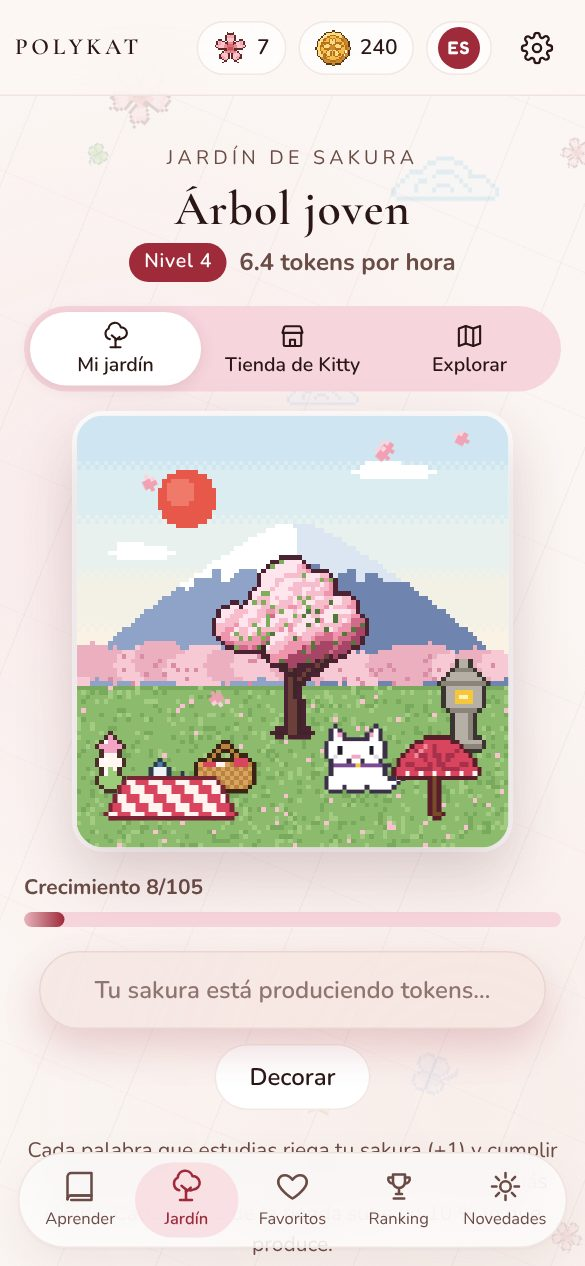
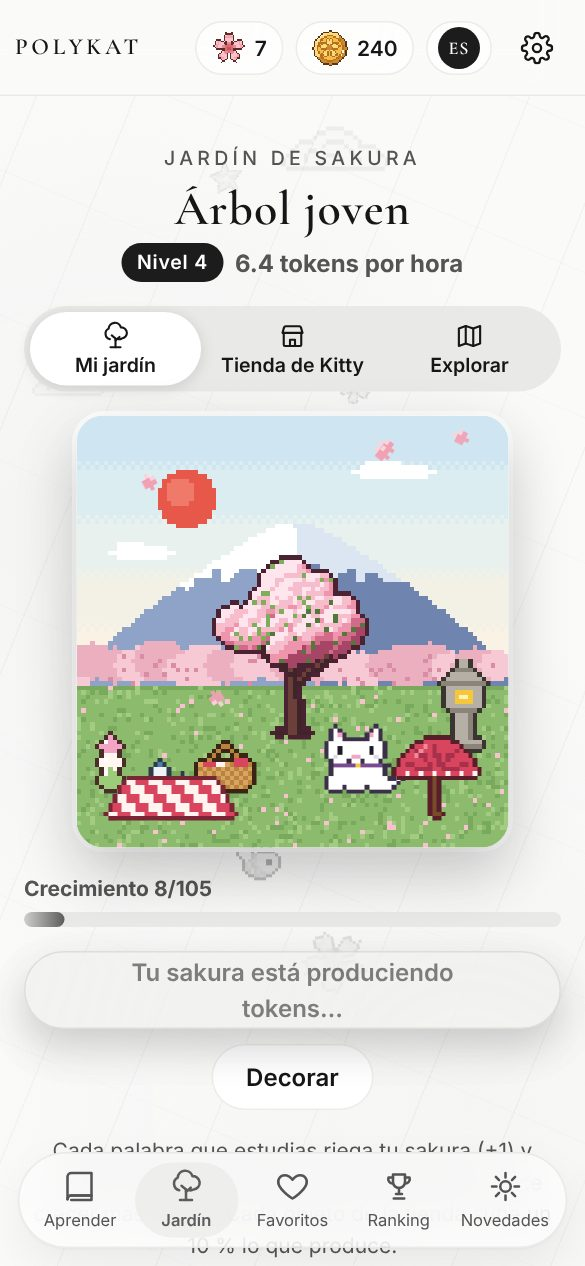
Estética editorial monocroma en la app y la web
- Paleta por defecto «Monocromo» (clave interna higo): blanco, grises y negro,
  en claro y oscuro; contraste ≥ 4,5 comprobado.
- Títulos en Cormorant Garamond y texto en Inter (antes Fredoka y Nunito).
- Ícono de la app sobre negro; manifest y theme-color al día.
- Adornos de fondo en gris; estados de «El proyecto» en blanco y negro.
- Capturas de la portada de la web regeneradas.
- SKILL.md: nueva decisión de estética.

Claude-Session: https://claude.ai/code/session_01TWBGA6CRZfGXqx1CQgpGsA

diff --git a/app/css/tokens.css b/app/css/tokens.css
@@ -1,16 +1,18 @@
 /* ==========================================================
    Polykat — tokens de diseño. Cambia colores y fuentes SOLO aquí.
-   Paletas (2026-10-13, más claras y vivas a pedido de Francisca): fondos casi blancos con un tono suave,
-   un color principal fuerte y 6 colores propios para los círculos (temas e idiomas): --nodo-1…6.
-     Higo (por defecto): frambuesa y ciruela · Piedra: menta y azul · Carbón: blanco, negro y joyas
+   Estética (2026-11-11, a pedido de Francisca): editorial y monocroma — blanco, grises y negro —,
+   títulos en serif (Cormorant Garamond) y texto en Inter. La paleta por defecto conserva la clave «higo»
+   (así no se pierde lo que cada persona eligió) pero se llama «Monocromo».
+   Paletas alternativas (Ajustes): 6 colores propios para los círculos (temas e idiomas): --nodo-1…6.
+     Monocromo (por defecto) · Piedra: menta y azul · Carbón: blanco, negro y joyas
      Tamarindo: rosa y terracota · Medianoche: lavanda y azul noche
    Los círculos usan los --nodo de la paleta elegida, así combinan con ella.
    Texto siempre oscuro en modo claro (contraste ≥ 4,5:1, comprobado en tests/contraste.test.mjs).
    ========================================================== */
 :root {
-  /* Tipografía (2026-10-13): redonda y gruesa en títulos + sans muy legible en el texto */
-  --font-display: 'Fredoka', 'Nunito', 'Arial Rounded MT Bold', system-ui, sans-serif;
-  --font-body: 'Nunito', 'Segoe UI', system-ui, -apple-system, sans-serif;
+  /* Tipografía (2026-11-11): serif editorial en títulos + sans neutra y muy legible en el texto */
+  --font-display: 'Cormorant Garamond', 'Cormorant', Garamond, 'Times New Roman', serif;
+  --font-body: 'Inter', 'Segoe UI', system-ui, -apple-system, sans-serif;
   --font-ipa: 'Noto Sans', 'Segoe UI', system-ui, sans-serif; /* símbolos de pronunciación */
   --font-logo: 'Cormorant Garamond', 'Cormorant', Garamond, 'Times New Roman', serif; /* logo y eslogan: serif elegante */
   --escala: 1;              /* ajuste "tamaño de letra" */
@@ -35,21 +37,21 @@
   --tracking-titulo: -0.03em;
   --borde-fino: color-mix(in srgb, var(--line) 45%, transparent);
   --vidrio: color-mix(in srgb, var(--surface) 72%, transparent);
-  --sombra-suave: 0 1px 2px rgba(90, 42, 48, .04), 0 12px 32px rgba(90, 42, 48, .07);
+  --sombra-suave: 0 1px 2px rgba(0, 0, 0, .04), 0 12px 32px rgba(0, 0, 0, .06);
   --sombra-acento: 0 12px 28px color-mix(in srgb, var(--primary) 28%, transparent);
 
-  /* Paleta "Higo" (por defecto, modo claro) */
-  --bg: #FBF6F3; --surface: #FFFFFF; --surface-2: #F5E4E0; --accent: #E8B4BC;
-  --accent-soft: #F7D5DC; --line: #E3CCC6; --ink: #2A1715; --ink-soft: #6B4B45;
-  --primary: #9E2A3A; --on-primary: #FFFFFF; --enfasis: #9E2A3A; --gold: #7A4A33;
-  --sand: #E8B4BC; --oscuro: #2A1715; --sobre-oscuro: #F5E4E0; --sobre-oscuro-suave: #E3CCC6;
-  --sombra-color: #5A2A30; --nodo-1: #A3264A; --nodo-2: #7B3FA0; --nodo-3: #C2410C;
-  --nodo-4: #A0367A; --nodo-5: #8A3324; --nodo-6: #5B4BA8;
-  --shadow: 0 1px 2px rgba(90, 42, 48, .06), 0 14px 40px rgba(90, 42, 48, .10);
+  /* Paleta «Monocromo» (por defecto, modo claro; clave interna «higo»): blanco, grises y negro */
+  --bg: #FAFAF9; --surface: #FFFFFF; --surface-2: #F0F0EE; --accent: #CFCFCD;
+  --accent-soft: #E9E9E7; --line: #D4D4D2; --ink: #161616; --ink-soft: #545454;
+  --primary: #1C1C1C; --on-primary: #FFFFFF; --enfasis: #5C5C5C; --gold: #5C5C5C;
+  --sand: #CFCFCD; --oscuro: #161616; --sobre-oscuro: #F0F0EE; --sobre-oscuro-suave: #C8C8C6;
+  --sombra-color: #000000; --nodo-1: #1C1C1C; --nodo-2: #3D3D3D; --nodo-3: #575757;
+  --nodo-4: #2B2B2B; --nodo-5: #4A4A4A; --nodo-6: #636363;
+  --shadow: 0 1px 2px rgba(0, 0, 0, .05), 0 14px 40px rgba(0, 0, 0, .07);
 
   /* Dificultad: insignias de color con ícono y texto en blanco (iguales en claro y oscuro) */
   --blanco: #FFFFFF;
-  --carmesi: #9E2A3A; --carmesi-luz: #B8384A; --blanco-fijo: #FFFFFF; --luz-farol: #FFD27A; --brillo-diamante: #BFF3FF; /* ícono de la app (fijo, igual en todas las paletas) */
+  --carmesi: #1C1C1C; --carmesi-luz: #3A3A3A; --blanco-fijo: #FFFFFF; --luz-farol: #FFD27A; --brillo-diamante: #BFF3FF; /* ícono de la app (fijo, igual en todas las paletas) */
   --d-nueva: #0369A1;     /* destello */
   --d-dificil: #B91C1C;   /* llama */
   --d-media: #B45309;     /* medio círculo */
@@ -59,7 +61,7 @@
 }
 
 /* Muestras de cada paleta (Ajustes → Paleta): fondo, círculo y color principal */
-.muestra-higo { background: conic-gradient(#F7D5DC 0 33%, #7B3FA0 0 66%, #9E2A3A 0); }
+.muestra-higo { background: conic-gradient(#F0F0EE 0 33%, #8A8A8A 0 66%, #1C1C1C 0); }
 .muestra-piedra { background: conic-gradient(#CDEBE5 0 33%, #2563EB 0 66%, #0F766E 0); }
 .muestra-carbon { background: conic-gradient(#DDDDE3 0 33%, #2563EB 0 66%, #18181B 0); }
 .muestra-tamarindo { background: conic-gradient(#F2CFD3 0 33%, #B4532A 0 66%, #8E2F45 0); }
@@ -102,10 +104,10 @@
 /* Modo oscuro: fondos profundos con el tono de la paleta (no negro) */
 @media (prefers-color-scheme: dark) {
   :root:not([data-theme="light"]) {
-    --bg: #2B1B22; --surface: #3A2530; --surface-2: #4B3040; --accent: #B0506A;
-    --accent-soft: #4A2B3A; --line: #6E4A58; --ink: #FBEFF2; --ink-soft: #E6C9D1;
-    --primary: #F4A3B5; --on-primary: #2B1B22; --enfasis: #F4A3B5; --gold: #F2C9A8;
-    --sand: #B0506A;
+    --bg: #121212; --surface: #1C1C1C; --surface-2: #262626; --accent: #5E5E5E;
+    --accent-soft: #242424; --line: #3A3A3A; --ink: #F2F2F2; --ink-soft: #BDBDBD;
+    --primary: #F2F2F2; --on-primary: #121212; --enfasis: #CFCFCF; --gold: #BDBDBD;
+    --sand: #5E5E5E;
     --shadow: 0 1px 2px rgba(0, 0, 0, .35), 0 14px 40px rgba(0, 0, 0, .4);
     --sombra-suave: 0 1px 2px rgba(0, 0, 0, .3), 0 12px 32px rgba(0, 0, 0, .35);
     --peligro: #FFB4B4;
@@ -113,10 +115,10 @@
   }
 }
 :root[data-theme="dark"] {
-  --bg: #2B1B22; --surface: #3A2530; --surface-2: #4B3040; --accent: #B0506A;
-  --accent-soft: #4A2B3A; --line: #6E4A58; --ink: #FBEFF2; --ink-soft: #E6C9D1;
-  --primary: #F4A3B5; --on-primary: #2B1B22; --enfasis: #F4A3B5; --gold: #F2C9A8;
-  --sand: #B0506A;
+  --bg: #121212; --surface: #1C1C1C; --surface-2: #262626; --accent: #5E5E5E;
+  --accent-soft: #242424; --line: #3A3A3A; --ink: #F2F2F2; --ink-soft: #BDBDBD;
+  --primary: #F2F2F2; --on-primary: #121212; --enfasis: #CFCFCF; --gold: #BDBDBD;
+  --sand: #5E5E5E;
   --shadow: 0 1px 2px rgba(0, 0, 0, .35), 0 14px 40px rgba(0, 0, 0, .4);
   --sombra-suave: 0 1px 2px rgba(0, 0, 0, .3), 0 12px 32px rgba(0, 0, 0, .35);
   --peligro: #FFB4B4;
@@ -170,5 +172,16 @@
     --accent-soft: #2B3350; --line: #4C5680; --ink: #EEF0FB; --ink-soft: #C3C9EA;
     --primary: #A9B4FF; --on-primary: #1B2135; --enfasis: #A9B4FF; --gold: #D8C8FF;
     --sand: #5A67C9;
+  }
+}
+
+/* Monocromo en modo oscuro: los círculos (texto blanco) pasan a grises medios para verse sobre el fondo negro.
+   Solo para la paleta por defecto (las otras conservan sus colores). */
+:root[data-theme="dark"]:not([data-paleta]), :root[data-theme="dark"][data-paleta="higo"] {
+  --nodo-1: #4A4A4A; --nodo-2: #5A5A5A; --nodo-3: #626262; --nodo-4: #555555; --nodo-5: #4F4F4F; --nodo-6: #5E5E5E;
+}
+@media (prefers-color-scheme: dark) {
+  :root:not([data-theme="light"]):not([data-paleta]), :root:not([data-theme="light"])[data-paleta="higo"] {
+    --nodo-1: #4A4A4A; --nodo-2: #5A5A5A; --nodo-3: #626262; --nodo-4: #555555; --nodo-5: #4F4F4F; --nodo-6: #5E5E5E;
   }
 }

diff --git a/web/index.html b/web/index.html
@@ -5,8 +5,8 @@
   <meta name="viewport" content="width=device-width, initial-scale=1, viewport-fit=cover">
   <title>Polykat — Un idioma nuevo, un minuto a la vez</title>
   <meta name="description" content="Polykat: aprende el vocabulario y las frases cotidianas de seis idiomas a la vez, en tarjetas que deslizas como un reel.">
-  <meta name="theme-color" content="#E4E2DA" media="(prefers-color-scheme: light)">
-  <meta name="theme-color" content="#211A18" media="(prefers-color-scheme: dark)">
+  <meta name="theme-color" content="#FAFAF9" media="(prefers-color-scheme: light)">
+  <meta name="theme-color" content="#121212" media="(prefers-color-scheme: dark)">
   <meta property="og:title" content="Polykat — Diccionario políglota">
   <meta property="og:description" content="Vocabulario y frases de seis idiomas, un minuto a la vez.">
   <link rel="icon" href="app/assets/app/favicon-32.png" type="image/png" sizes="32x32">
@@ -14,8 +14,8 @@
   <link rel="preconnect" href="https://fonts.googleapis.com">
   <link rel="preconnect" href="https://fonts.gstatic.com" crossorigin>
   <!-- Fuentes: se cargan sin bloquear el primer dibujo (mientras tanto se ve la letra del sistema) -->
-  <link rel="preload" as="style" href="https://fonts.googleapis.com/css2?family=Fredoka:wght@400;500;600;700&family=Nunito:ital,wght@0,400;0,600;0,700;0,800;1,400&family=Cormorant+Garamond:ital,wght@0,500;0,600;0,700;1,500;1,600&display=swap" onload="this.onload=null;this.rel='stylesheet'">
-  <noscript><link rel="stylesheet" href="https://fonts.googleapis.com/css2?family=Fredoka:wght@400;500;600;700&family=Nunito:ital,wght@0,400;0,600;0,700;0,800;1,400&family=Cormorant+Garamond:ital,wght@0,500;0,600;0,700;1,500;1,600&display=swap"></noscript>
+  <link rel="preload" as="style" href="https://fonts.googleapis.com/css2?family=Cormorant+Garamond:ital,wght@0,400;0,500;0,600;0,700;1,500;1,600&family=Inter:wght@400;500;600;700;800&display=swap" onload="this.onload=null;this.rel='stylesheet'">
+  <noscript><link rel="stylesheet" href="https://fonts.googleapis.com/css2?family=Cormorant+Garamond:ital,wght@0,400;0,500;0,600;0,700;1,500;1,600&family=Inter:wght@400;500;600;700;800&display=swap"></noscript>
   <link rel="stylesheet" href="app/css/tokens.css">
   <link rel="stylesheet" href="app/css/logo.css">
   <link rel="stylesheet" href="web.css">

diff --git a/app/index.html b/app/index.html
@@ -5,7 +5,7 @@
   <meta name="viewport" content="width=device-width, initial-scale=1, viewport-fit=cover">
   <title>Polykat</title>
   <meta name="description" content="Aprende el vocabulario y las frases cotidianas de varios idiomas a la vez, deslizando tarjetas.">
-  <meta name="theme-color" content="#9E2A3A">
+  <meta name="theme-color" content="#1C1C1C">
   <link rel="manifest" href="manifest.webmanifest">
   <link rel="icon" href="assets/app/favicon-32.png" type="image/png" sizes="32x32">
   <link rel="apple-touch-icon" href="assets/app/apple-touch-icon.png">
@@ -16,8 +16,8 @@
   <link rel="preconnect" href="https://fonts.googleapis.com">
   <link rel="preconnect" href="https://fonts.gstatic.com" crossorigin>
   <!-- Fuentes: se cargan sin bloquear el primer dibujo (mientras tanto se ve la letra del sistema) -->
-  <link rel="preload" as="style" href="https://fonts.googleapis.com/css2?family=Fredoka:wght@400;500;600;700&family=Nunito:ital,wght@0,400;0,600;0,700;0,800;1,400&family=Noto+Sans:wght@400&family=Cormorant+Garamond:ital,wght@0,500;0,600;0,700;1,500;1,600&display=swap" onload="this.onload=null;this.rel='stylesheet'">
-  <noscript><link rel="stylesheet" href="https://fonts.googleapis.com/css2?family=Fredoka:wght@400;500;600;700&family=Nunito:ital,wght@0,400;0,600;0,700;0,800;1,400&family=Noto+Sans:wght@400&family=Cormorant+Garamond:ital,wght@0,500;0,600;0,700;1,500;1,600&display=swap"></noscript>
+  <link rel="preload" as="style" href="https://fonts.googleapis.com/css2?family=Cormorant+Garamond:ital,wght@0,400;0,500;0,600;0,700;1,500;1,600&family=Inter:wght@400;500;600;700;800&family=Noto+Sans:wght@400&display=swap" onload="this.onload=null;this.rel='stylesheet'">
+  <noscript><link rel="stylesheet" href="https://fonts.googleapis.com/css2?family=Cormorant+Garamond:ital,wght@0,400;0,500;0,600;0,700;1,500;1,600&family=Inter:wght@400;500;600;700;800&family=Noto+Sans:wght@400&display=swap"></noscript>
   <link rel="stylesheet" href="css/tokens.css">
   <link rel="stylesheet" href="css/logo.css">
   <link rel="stylesheet" href="css/app.css">

diff --git a/app/js/i18n-de.js b/app/js/i18n-de.js
@@ -59,7 +59,7 @@ export default {
     rank_pronto: 'Die Rangliste mit anderen wird aktiviert, sobald es Cloud-Konten gibt.',
     nov_titulo: 'Neuigkeiten',
     aj_titulo: 'Einstellungen', aj_apariencia: 'Darstellung', aj_tema: 'Design', aj_sistema: 'Wie Gerät', aj_claro: 'Hell', aj_oscuro: 'Dunkel',
-    aj_paleta: 'Farbpalette', pal_higo: 'Feige', pal_piedra: 'Stein', pal_carbon: 'Kohle', pal_tamarindo: 'Tamarinde', pal_medianoche: 'Mitternacht',
+    aj_paleta: 'Farbpalette', pal_higo: 'Monochrom', pal_piedra: 'Stein', pal_carbon: 'Kohle', pal_tamarindo: 'Tamarinde', pal_medianoche: 'Mitternacht',
     aj_letra: 'Textgröße', aj_brillo: 'Helligkeit', aj_ipa: 'Lautschrift anzeigen (IPA)',
     aj_sonido: 'Töne und Vibration', premio_titulo: 'Gewinn!', premio_texto: 'Du hast heute {n} Wörter wiederholt', premio_siguiente: 'Nächster Gewinn bei {n} Wörtern: {m} Münzen', premio_ok: 'Einsammeln!', desliza_lados: 'Wische → wenn du es weißt · ← zum Wiederholen',
     nov_nueva: 'Neues Update!', nov_anteriores: 'Frühere Versionen', tut_k1: 'Hallo! Ich bin Kitty. Tippe auf die Karte, um die Übersetzung zu sehen.', tut_k2: 'Wusstest du es schon? Wische die Karte nach rechts. Willst du sie wiederholen? Nach links.', tut_k3: 'Jede Karte bringt dir Münzen. Alle 10 Wörter am Tag gewinnst du einen Preis!', tut_k4: 'Wenn du nicht weiterweißt, tippe auf mich und ich helfe dir mit dem Wort.', tut_siguiente: 'Weiter', tut_listo: 'Verstanden!', tut_saltar: 'Überspringen', tut_ver: 'Tutorial mit Kitty ansehen',

diff --git a/app/js/i18n-fr.js b/app/js/i18n-fr.js
@@ -59,7 +59,7 @@ export default {
     rank_pronto: 'Le classement avec d’autres personnes s’activera avec les comptes en ligne.',
     nov_titulo: 'Nouveautés',
     aj_titulo: 'Réglages', aj_apariencia: 'Apparence', aj_tema: 'Thème', aj_sistema: 'De l’appareil', aj_claro: 'Clair', aj_oscuro: 'Sombre',
-    aj_paleta: 'Palette', pal_higo: 'Figue', pal_piedra: 'Pierre', pal_carbon: 'Charbon', pal_tamarindo: 'Tamarin', pal_medianoche: 'Minuit',
+    aj_paleta: 'Palette', pal_higo: 'Monochrome', pal_piedra: 'Pierre', pal_carbon: 'Charbon', pal_tamarindo: 'Tamarin', pal_medianoche: 'Minuit',
     aj_letra: 'Taille du texte', aj_brillo: 'Luminosité', aj_ipa: 'Afficher la prononciation écrite (API)',
     aj_sonido: 'Sons et vibrations', premio_titulo: 'Jackpot !', premio_texto: 'Tu as révisé {n} mots aujourd\'hui', premio_siguiente: 'Prochain prix à {n} mots : {m} pièces', premio_ok: 'Encaisser !', desliza_lados: 'Glisse → si tu sais · ← pour réviser',
     nov_nueva: 'Nouvelle mise à jour !', nov_anteriores: 'Versions précédentes', tut_k1: 'Salut ! Je suis Kitty. Touche la carte pour voir la traduction.', tut_k2: 'Tu le savais ? Glisse la carte vers la droite. Tu veux la réviser ? Vers la gauche.', tut_k3: 'Chaque carte te donne des pièces. Tous les 10 mots du jour, tu gagnes un prix !', tut_k4: 'Si tu es perdu, touche-moi et je t\'aide avec le mot.', tut_siguiente: 'Suivant', tut_listo: 'C\'est compris !', tut_saltar: 'Passer', tut_ver: 'Voir le tutoriel avec Kitty',

diff --git a/app/js/i18n.js b/app/js/i18n.js
@@ -65,7 +65,7 @@ const T = {
     rank_pronto: 'El ranking con otras personas se activa cuando existan las cuentas en la nube.',
     nov_titulo: 'Novedades',
     aj_titulo: 'Ajustes', aj_apariencia: 'Apariencia', aj_tema: 'Tema', aj_sistema: 'Del dispositivo', aj_claro: 'Claro', aj_oscuro: 'Oscuro',
-    aj_paleta: 'Paleta', pal_higo: 'Higo', pal_piedra: 'Piedra', pal_carbon: 'Carbón', pal_tamarindo: 'Tamarindo', pal_medianoche: 'Medianoche',
+    aj_paleta: 'Paleta', pal_higo: 'Monocromo', pal_piedra: 'Piedra', pal_carbon: 'Carbón', pal_tamarindo: 'Tamarindo', pal_medianoche: 'Medianoche',
     aj_letra: 'Tamaño de letra', aj_brillo: 'Brillo', aj_ipa: 'Mostrar pronunciación escrita (IPA)',
     aj_sonido: 'Sonidos y vibración', premio_titulo: '¡Premio!', premio_texto: 'Revisaste {n} palabras hoy', premio_siguiente: 'Próximo premio a las {n} palabras: {m} monedas', premio_ok: '¡Cobrar!', desliza_lados: 'Desliza → si lo sabes · ← para repasar',
     nov_nueva: '¡Nueva actualización!', nov_anteriores: 'Versiones anteriores', tut_k1: '¡Hola! Soy Kitty. Toca la tarjeta para ver la traducción.', tut_k2: '¿Ya la sabías? Desliza la tarjeta a la derecha. ¿Quieres repasarla? A la izquierda.', tut_k3: 'Cada tarjeta te da monedas. ¡Cada 10 palabras del día ganas un premio!', tut_k4: 'Si te pierdes, tócame y te ayudo con la palabra.', tut_siguiente: 'Siguiente', tut_listo: '¡Entendido!', tut_saltar: 'Saltar', tut_ver: 'Ver el tutorial con Kitty',

diff --git a/app/js/i18n-pt.js b/app/js/i18n-pt.js
@@ -59,7 +59,7 @@ export default {
     rank_pronto: 'O ranking com outras pessoas é ativado quando existirem as contas na nuvem.',
     nov_titulo: 'Novidades',
     aj_titulo: 'Ajustes', aj_apariencia: 'Aparência', aj_tema: 'Tema', aj_sistema: 'Do dispositivo', aj_claro: 'Claro', aj_oscuro: 'Escuro',
-    aj_paleta: 'Paleta', pal_higo: 'Figo', pal_piedra: 'Pedra', pal_carbon: 'Carvão', pal_tamarindo: 'Tamarindo', pal_medianoche: 'Meia-noite',
+    aj_paleta: 'Paleta', pal_higo: 'Monocromático', pal_piedra: 'Pedra', pal_carbon: 'Carvão', pal_tamarindo: 'Tamarindo', pal_medianoche: 'Meia-noite',
     aj_letra: 'Tamanho do texto', aj_brillo: 'Brilho', aj_ipa: 'Mostrar pronúncia escrita (IPA)',
     aj_sonido: 'Sons e vibração', premio_titulo: 'Prêmio!', premio_texto: 'Você revisou {n} palavras hoje', premio_siguiente: 'Próximo prêmio com {n} palavras: {m} moedas', premio_ok: 'Pegar!', desliza_lados: 'Deslize → se você sabe · ← para revisar',
     nov_nueva: 'Nova atualização!', nov_anteriores: 'Versões anteriores', tut_k1: 'Oi! Eu sou a Kitty. Toque no cartão para ver a tradução.', tut_k2: 'Já sabia? Deslize o cartão para a direita. Quer revisar? Para a esquerda.', tut_k3: 'Cada cartão te dá moedas. A cada 10 palavras do dia você ganha um prêmio!', tut_k4: 'Se você se perder, toque em mim que eu te ajudo com a palavra.', tut_siguiente: 'Próximo', tut_listo: 'Entendi!', tut_saltar: 'Pular', tut_ver: 'Ver o tutorial com a Kitty',

diff --git a/app/js/i18n-it.js b/app/js/i18n-it.js
@@ -59,7 +59,7 @@ export default {
     rank_pronto: 'La classifica con altre persone si attiva quando esisteranno gli account nel cloud.',
     nov_titulo: 'Novità',
     aj_titulo: 'Impostazioni', aj_apariencia: 'Aspetto', aj_tema: 'Tema', aj_sistema: 'Del dispositivo', aj_claro: 'Chiaro', aj_oscuro: 'Scuro',
-    aj_paleta: 'Tavolozza', pal_higo: 'Fico', pal_piedra: 'Pietra', pal_carbon: 'Carbone', pal_tamarindo: 'Tamarindo', pal_medianoche: 'Mezzanotte',
+    aj_paleta: 'Tavolozza', pal_higo: 'Monocromatico', pal_piedra: 'Pietra', pal_carbon: 'Carbone', pal_tamarindo: 'Tamarindo', pal_medianoche: 'Mezzanotte',
     aj_letra: 'Dimensione del testo', aj_brillo: 'Luminosità', aj_ipa: 'Mostra la pronuncia scritta (IPA)',
     aj_sonido: 'Suoni e vibrazione', premio_titulo: 'Premio!', premio_texto: 'Oggi hai ripassato {n} parole', premio_siguiente: 'Prossimo premio a {n} parole: {m} monete', premio_ok: 'Ritira!', desliza_lados: 'Scorri → se la sai · ← per ripassare',
     nov_nueva: 'Nuovo aggiornamento!', nov_anteriores: 'Versioni precedenti', tut_k1: 'Ciao! Sono Kitty. Tocca la carta per vedere la traduzione.', tut_k2: 'La sapevi già? Scorri la carta a destra. Vuoi ripassarla? A sinistra.', tut_k3: 'Ogni carta ti dà monete. Ogni 10 parole al giorno vinci un premio!', tut_k4: 'Se ti perdi, toccami e ti aiuto con la parola.', tut_siguiente: 'Avanti', tut_listo: 'Capito!', tut_saltar: 'Salta', tut_ver: 'Guarda il tutorial con Kitty',

diff --git a/app/js/i18n-en.js b/app/js/i18n-en.js
@@ -59,7 +59,7 @@ export default {
     rank_pronto: 'Ranking against other people turns on once cloud accounts exist.',
     nov_titulo: 'What’s new',
     aj_titulo: 'Settings', aj_apariencia: 'Appearance', aj_tema: 'Theme', aj_sistema: 'Device', aj_claro: 'Light', aj_oscuro: 'Dark',
-    aj_paleta: 'Palette', pal_higo: 'Fig', pal_piedra: 'Stone', pal_carbon: 'Charcoal', pal_tamarindo: 'Tamarind', pal_medianoche: 'Midnight',
+    aj_paleta: 'Palette', pal_higo: 'Monochrome', pal_piedra: 'Stone', pal_carbon: 'Charcoal', pal_tamarindo: 'Tamarind', pal_medianoche: 'Midnight',
     aj_letra: 'Text size', aj_brillo: 'Brightness', aj_ipa: 'Show written pronunciation (IPA)',
     aj_sonido: 'Sounds and vibration', premio_titulo: 'Jackpot!', premio_texto: 'You reviewed {n} words today', premio_siguiente: 'Next prize at {n} words: {m} coins', premio_ok: 'Collect!', desliza_lados: 'Swipe → if you know it · ← to review',
     nov_nueva: 'New update!', nov_anteriores: 'Previous versions', tut_k1: 'Hi! I\'m Kitty. Tap the card to see the translation.', tut_k2: 'Already knew it? Swipe the card right. Want to review it? Swipe left.', tut_k3: 'Every card gives you coins. Every 10 words a day you win a prize!', tut_k4: 'If you get lost, tap me and I\'ll help you with the word.', tut_siguiente: 'Next', tut_listo: 'Got it!', tut_saltar: 'Skip', tut_ver: 'Watch the tutorial with Kitty',

diff --git a/web/web.css b/web/web.css
@@ -626,3 +626,15 @@ main { counter-reset: seccion; }
   .idioma-txt { flex: 1 1 calc(100% - 50px); }
   .idioma .tag { min-height: 22px; padding: 0 8px; font-size: 11px; }
 }
+
+/* ---------- Estética monocroma (2026-11-11): blanco, grises y negro ---------- */
+/* Adornos de fondo (sakuras, monedas) en gris: acompañan sin romper el blanco y negro. Kitty conserva su color. */
+.adornos { filter: grayscale(1); }
+/* Estados del proyecto: negro (hecho), gris (en curso), contorno (próximo); siempre con ícono y texto */
+.estado.hecho { background: var(--primary); color: var(--on-primary); }
+.estado.curso { background: var(--ink-soft); color: var(--surface); }
+.avance-barra i.hecho { background: var(--primary); }
+.avance-barra i.curso { background: linear-gradient(90deg, var(--ink-soft) 50%, var(--surface-2) 50%); }
+.dato-num { color: var(--ink); }
+/* Títulos en serif editorial: sin el apretado que necesitaba la letra redonda */
+.display, .seccion-cabeza .display { letter-spacing: -0.01em; font-weight: 600; }

diff --git a/web/legal/privacidad.html b/web/legal/privacidad.html
@@ -5,7 +5,7 @@
   <meta name="viewport" content="width=device-width, initial-scale=1">
   <title>Política de privacidad — Polykat</title>
   <link rel="icon" href="../app/assets/app/favicon-32.png" type="image/png" sizes="32x32">
-  <link rel="stylesheet" href="https://fonts.googleapis.com/css2?family=Nunito:wght@400;700&family=Cormorant+Garamond:ital,wght@0,600;1,500&display=swap">
+  <link rel="stylesheet" href="https://fonts.googleapis.com/css2?family=Inter:wght@400;700&family=Cormorant+Garamond:ital,wght@0,600;1,500&display=swap">
   <link rel="stylesheet" href="../app/css/tokens.css">
   <link rel="stylesheet" href="../app/css/logo.css">
   <link rel="stylesheet" href="legal.css">

diff --git a/web/legal/terminos.html b/web/legal/terminos.html
@@ -5,7 +5,7 @@
   <meta name="viewport" content="width=device-width, initial-scale=1">
   <title>Términos y condiciones — Polykat</title>
   <link rel="icon" href="../app/assets/app/favicon-32.png" type="image/png" sizes="32x32">
-  <link rel="stylesheet" href="https://fonts.googleapis.com/css2?family=Nunito:wght@400;700&family=Cormorant+Garamond:ital,wght@0,600;1,500&display=swap">
+  <link rel="stylesheet" href="https://fonts.googleapis.com/css2?family=Inter:wght@400;700&family=Cormorant+Garamond:ital,wght@0,600;1,500&display=swap">
   <link rel="stylesheet" href="../app/css/tokens.css">
   <link rel="stylesheet" href="../app/css/logo.css">
   <link rel="stylesheet" href="legal.css">
